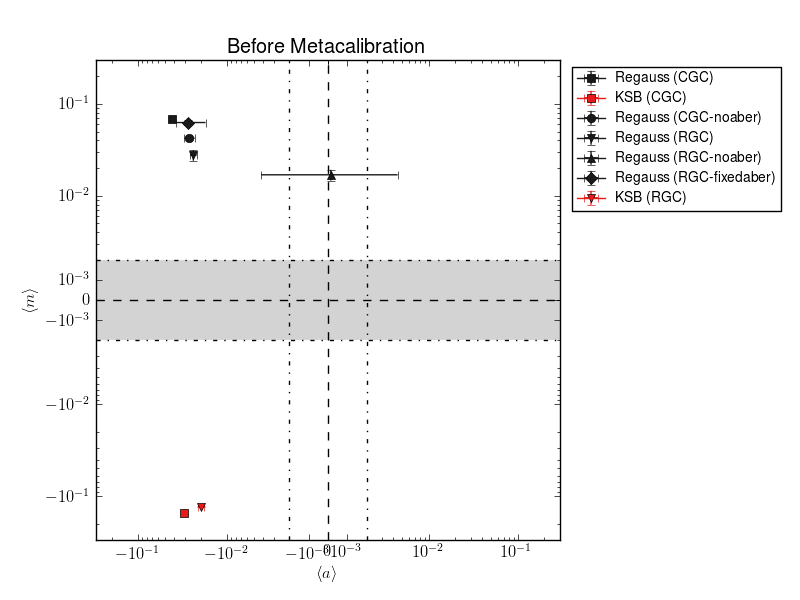
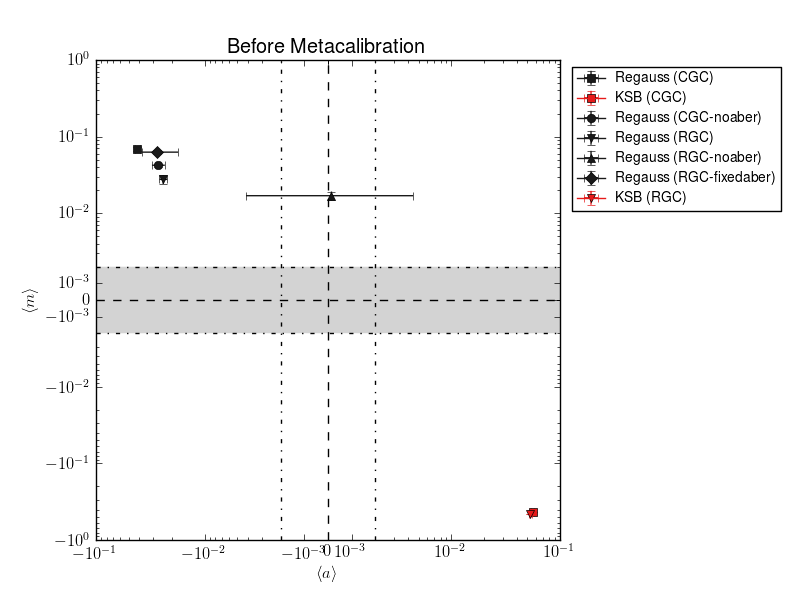
new before/after plots

diff --git a/Scripts/great3like.py b/Scripts/great3like.py
@@ -17,15 +17,15 @@ outfile1 = 'great3_before_after'
 outfile2 = 'great3_before'
 outfile3 = 'great3_after'
 outsuff = '.png'
-a_lim = (-0.3,0.3)
-m_lim = (-0.3,0.3)
+a_lim = (-0.1,0.1)
+m_lim = (-1.,1.)
 # components: average them or ...?
 components = ['1','2','both']
 # make dicts with translation of codes to branches and methods
 info_dict = {
-    'cgc-regauss':{'branch':'CGC','method':'Regauss','marker':'s','color':(0.1,0.1,0.1),'ls':'-'},
-    'cgc-ksb':{'branch':'CGC','method':'KSB','marker':'s','color':(0.9,0.1,0.1),'ls':'-'},
-    'cgc-moments':{'branch':'CGC','method':'Moments','marker':'s','color':(0.9,0.1,0.9),'ls':'-'},
+    'regauss':{'branch':'CGC','method':'Regauss','marker':'s','color':(0.1,0.1,0.1),'ls':'-'},
+    'ksb':{'branch':'CGC','method':'KSB','marker':'s','color':(0.9,0.1,0.1),'ls':'-'},
+    'moments':{'branch':'CGC','method':'Moments','marker':'s','color':(0.9,0.1,0.9),'ls':'-'},
     'noaber-regauss':{'branch':'CGC-noaber','method':'Regauss','marker':'o','color':(0.1,0.1,0.1),'ls':'-'},
     'rgc-regauss':{'branch':'RGC','method':'Regauss','marker':'v','color':(0.1,0.1,0.1),'ls':'-'},
     'rgc-noaber-regauss':{'branch':'RGC-noaber','method':'Regauss','marker':'^','color':(0.1,0.1,0.1),'ls':'-'},
@@ -35,7 +35,7 @@ info_dict = {
 m_targ = 0.002
 
 # read in data
-dat = np.genfromtxt(infile, dtype=None, skip_header=2)
+dat = np.genfromtxt(infile, dtype=None)
 # now we have an unstructured array
 # yank out the methods
 n = len(dat)
@@ -79,6 +79,8 @@ for component in components:
             plt.errorbar([a_vals[ind]], [m_vals[ind]], xerr=[a_err_vals[ind]], yerr=[m_err_vals[ind]],
                          marker=info_dict[mstr]['marker'], color=info_dict[mstr]['color'],
                          label=info_dict[mstr]['method']+' ('+info_dict[mstr]['branch']+')')
+            #if 'ksb' in info_dict[mstr]['method'].lower():
+            #    print info_dict[mstr]['method'], m_vals[ind], a_vals[ind]
     #a_lim = (min_a, max_a)
     #m_lim = (min_m, max_m)
     zero_arr = np.zeros(2)
